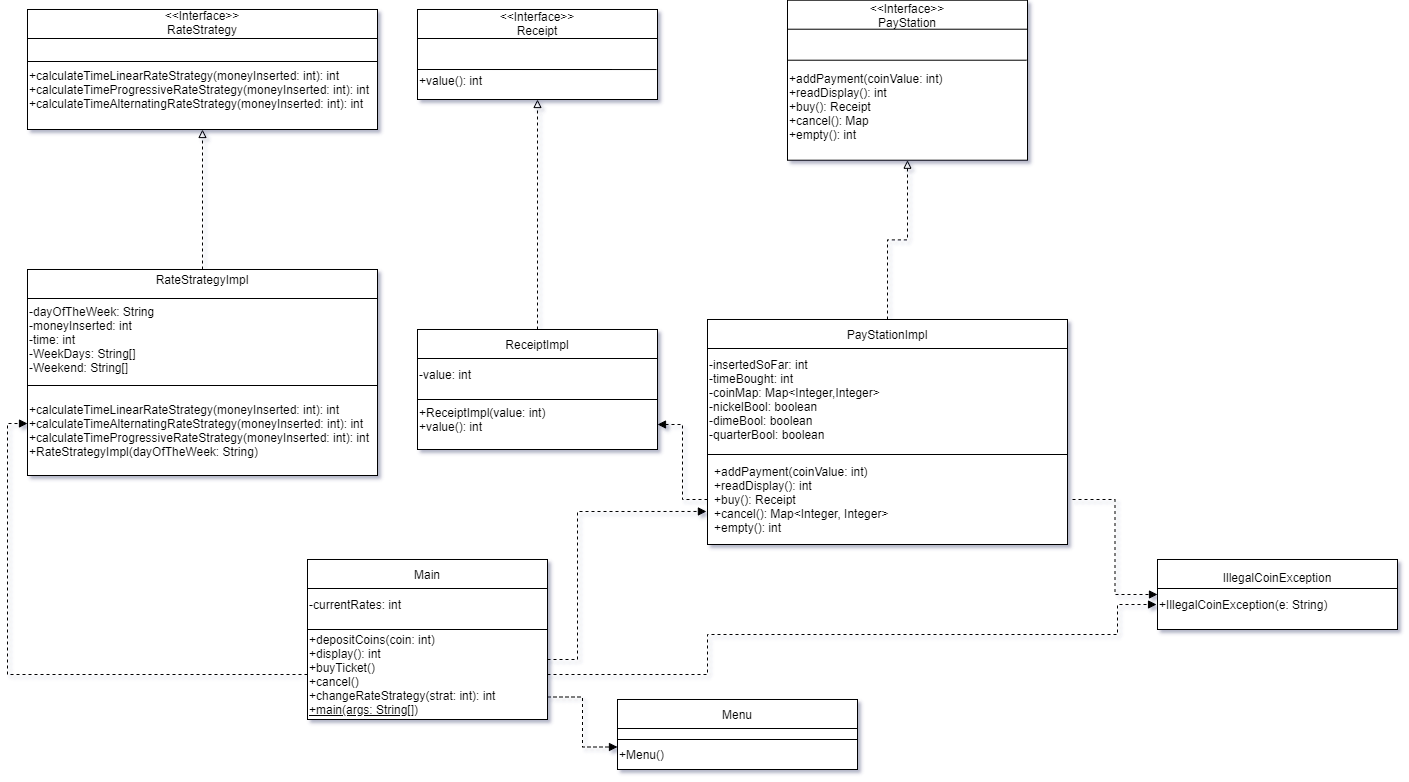
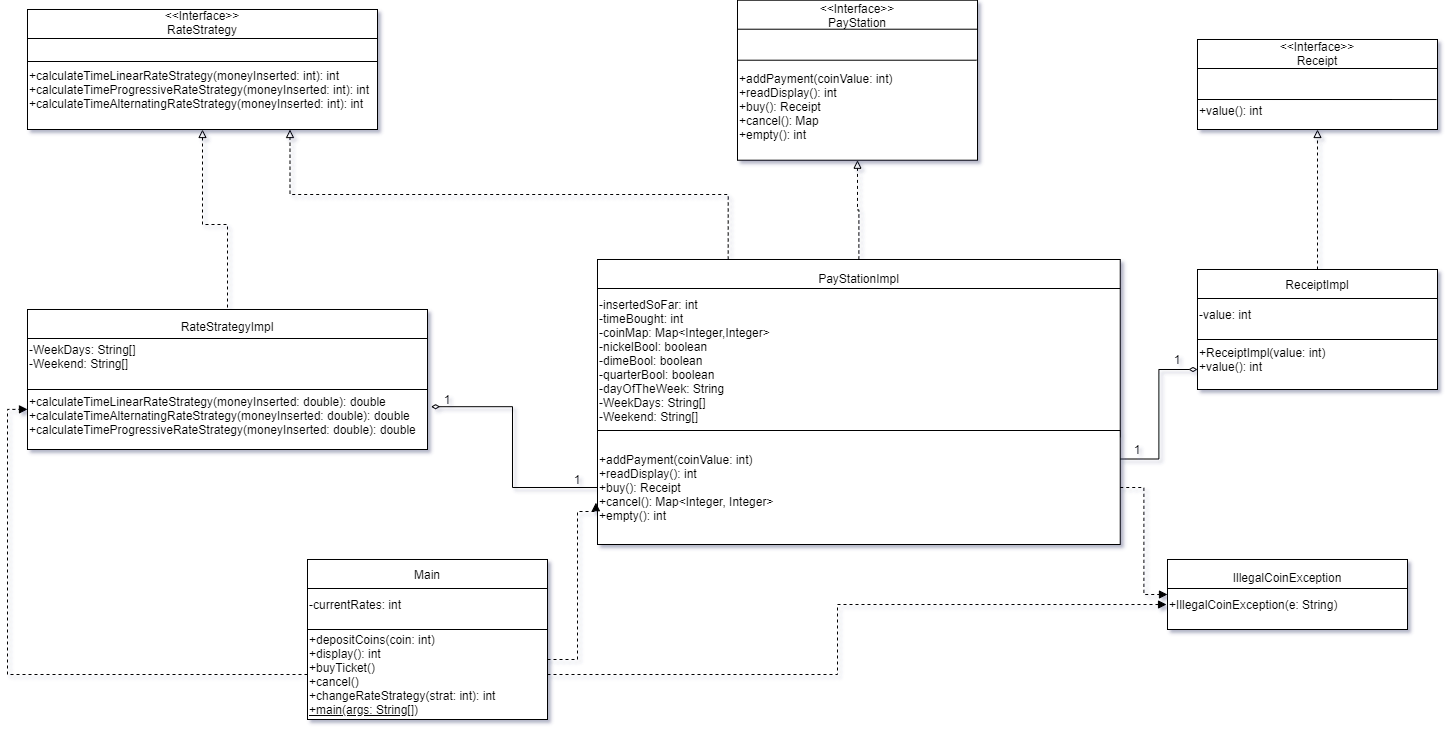
Edits to UML diagram and slight edits to Main class

diff --git a/src/paystation/domain/Main.java b/src/paystation/domain/Main.java
@@ -36,18 +36,21 @@ public class Main {
     
     //Accept coins for payment
     //Can accept 5, 10, 25 coins
-    public void depositCoins(int coin){
-        
+    public void depositCoins(int coin) throws IllegalCoinException{
+        ps.addPayment(coin);
     }
     
     //Displays the current amount of time bought
     public int display(){
-        return -1;
+        int timeBought = ps.readDisplay();
+        System.out.println(timeBought + " minutes bought");
+        return timeBought;
     }
     
     //Calls the corresponding method in PayStationImpl
     //Print the receipt
     public void buyTicket(){
+        Receipt r = ps.buy();
         //return;
     }
     
